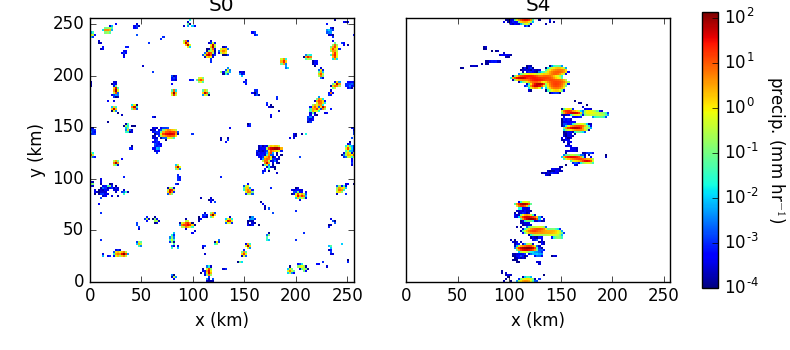
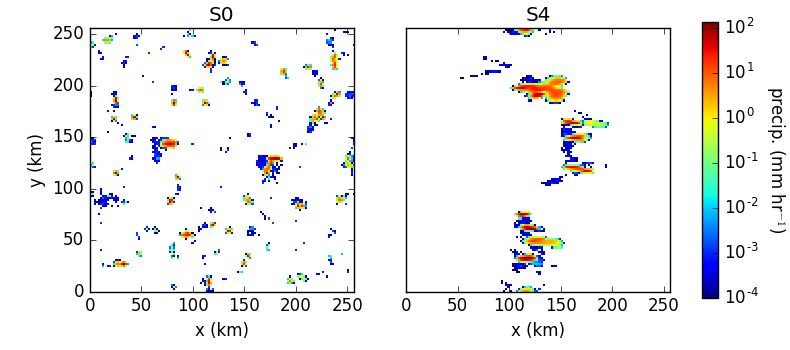
Update cropping of precip plots so as not to cut off expt title.

diff --git a/figs/crop_figs.py b/figs/crop_figs.py
@@ -5,7 +5,7 @@ from glob import glob
 from PIL import Image
 
 FILES_TO_CROP = [
-    ('atmos.precip_plot.time_index*png', (10, 150, 800, 500)),
+    ('atmos.precip_plot.time_index*png', (10, 140, 800, 490)),
 ]
 
 
